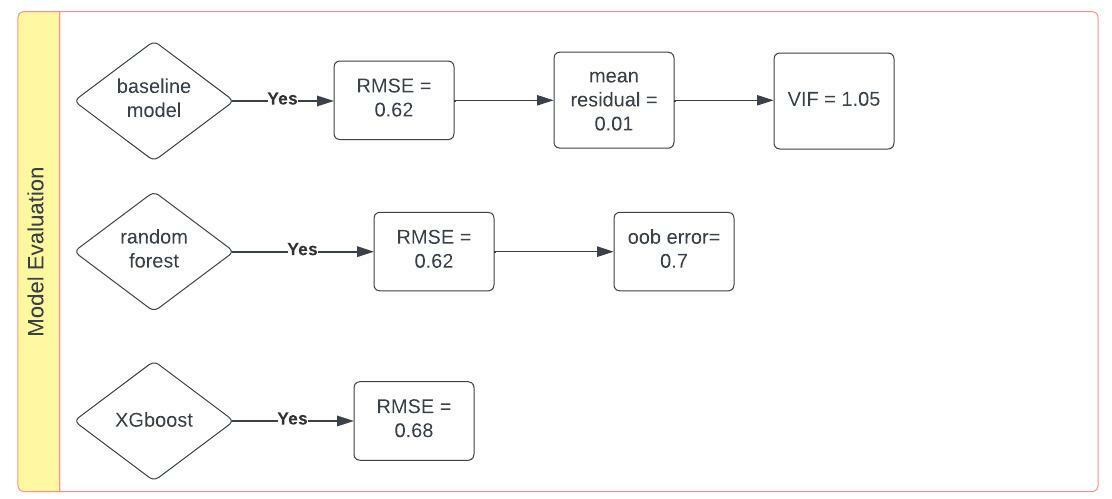
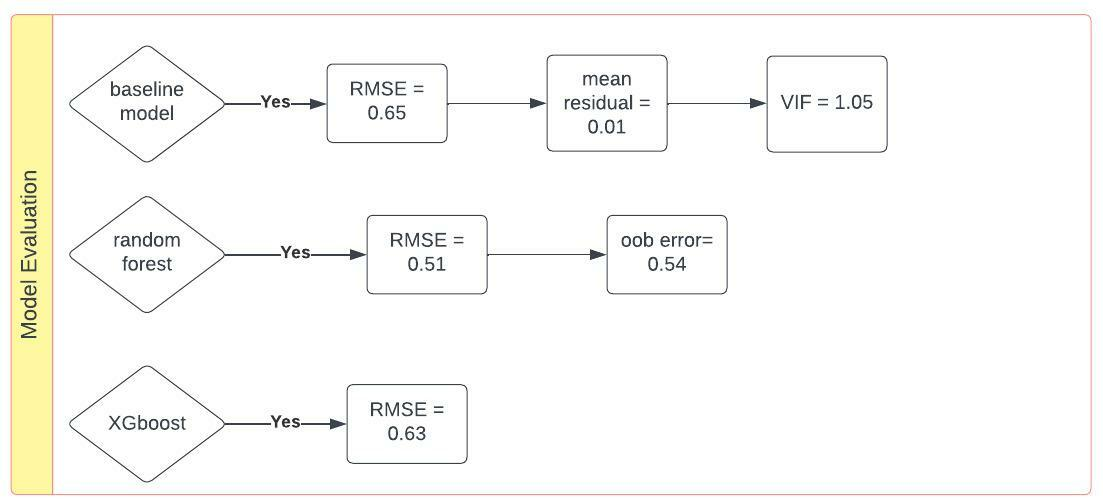
new changes

diff --git a/README.md b/README.md
@@ -101,7 +101,7 @@ XGBoost model: RMSE = 0.61
 
 1. Baseline model: The Value of Root mean squared error is 0.65. and Normalized RMSE = 0.09. The value of VIF is 1.16. This means that there is no multicollinearity in the model. The mean_residuals is 0.01.
 2. Random forest model: The value of Root mean squared error is 0.51. and Normalized RMSE = 0.07. The value of OOB error is 0.54. The model will make an error of 54% on test data. The model is overfitting. 
-3. XGBoost model: The value of Root mean squared error is 0.63 and has the lowest RMSE among the three models.
+3. XGBoost model: The value of Root mean squared error is 0.63.
 
 #### Plots:
 
